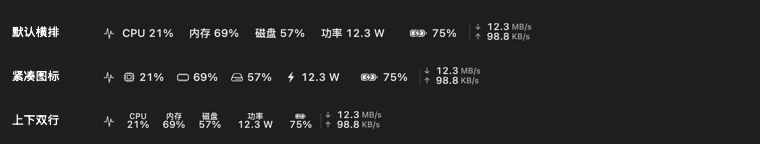
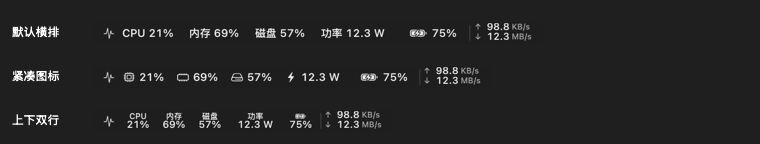
发布 3.8.2：调整状态栏网络为上传在上、下载在下

Changed region(s): [[0.4237, 0.7778, 0.5145, 0.8889], [0.5447, 0.4722, 0.6355, 0.5833], [0.6053, 0.1667, 0.6961, 0.2778]]

diff --git a/MenuBarStyle.swift b/MenuBarStyle.swift
@@ -141,8 +141,8 @@ struct MenuBarPresentation {
                 let reading = value(metric, snapshot: snapshot, battery: battery) as NSString
                 let readingSize = reading.size(withAttributes: attributes)
                 if metric == .network {
-                    networkLayout.draw(snapshot?.network?.downloadBytesPerSecond, arrow: "↓", at: NSPoint(x: x, y: 10))
-                    networkLayout.draw(snapshot?.network?.uploadBytesPerSecond, arrow: "↑", at: NSPoint(x: x, y: 0))
+                    networkLayout.draw(snapshot?.network?.uploadBytesPerSecond, arrow: "↑", at: NSPoint(x: x, y: 10))
+                    networkLayout.draw(snapshot?.network?.downloadBytesPerSecond, arrow: "↓", at: NSPoint(x: x, y: 0))
                 } else if style == .standard && metric != .battery {
                     let text = (metric.label + " " + (reading as String)) as NSString
                     text.draw(at: NSPoint(x: x, y: (height - text.size(withAttributes: attributes).height) / 2), withAttributes: attributes)

diff --git a/README.md b/README.md
@@ -2,13 +2,13 @@
 
 原生 macOS 资源面板、可选菜单栏监控与桌面小组件。查看各核心 CPU、进程内存、磁盘容量、网络速率、电池与进程 CPU 能耗，并由用户选择退出进程。资源面板使用普通窗口，不会置顶。
 
-当前版本：**3.8.1**。安装后的应用和小组件名称均为 **“系统状态”**。
+当前版本：**3.8.2**。安装后的应用和小组件名称均为 **“系统状态”**。
 
 ## 下载安装
 
-**[下载安装包：MacPulse Widget 3.8.1（M 系列 / Intel 通用）](https://github.com/qwer8856/MACPulse-widget/releases/download/v3.8.1/MACPulse-Widget-v3.8.1-macOS-universal.zip)**
+**[下载安装包：MacPulse Widget 3.8.2（M 系列 / Intel 通用）](https://github.com/qwer8856/MACPulse-widget/releases/download/v3.8.2/MACPulse-Widget-v3.8.2-macOS-universal.zip)**
 
-[版本发布页与校验文件](https://github.com/qwer8856/MACPulse-widget/releases/tag/v3.8.1)
+[版本发布页与校验文件](https://github.com/qwer8856/MACPulse-widget/releases/tag/v3.8.2)
 
 支持 Apple Silicon Mac（M 系列）与 Intel Mac，需要 macOS 14 或更新版本。应用和桌面小组件均包含两种架构，系统自动选择对应版本。
 
@@ -66,7 +66,7 @@
 | 紧凑图标 | 每项使用对应图标与读数，减少文字占用 |
 | 上下双行 | 上方为名称、下方为读数，电池上方显示电池及充电图标 |
 
-三种样式均支持任意指标组合、约每秒更新和新版本提示，自动适配深浅色。网络读数始终排在已选指标最后，并以淡竖线与前一项分隔；在全部三种样式中均为上方下载、下方上传的两行布局，数值保持对齐。网络单独显示时不显示前方分隔线。样式选择会保存，菜单与资源面板同步；在菜单中切换立即应用顶部布局，菜单保持展开。固定组合和样式下，读数预留宽度不随每秒采样变化；主动切换组合或样式时按新布局调整宽度。
+三种样式均支持任意指标组合、约每秒更新和新版本提示，自动适配深浅色。网络读数始终排在已选指标最后，并以淡竖线与前一项分隔；在全部三种样式中均为上方上传、下方下载的两行布局，数值保持对齐。网络单独显示时不显示前方分隔线。样式选择会保存，菜单与资源面板同步；在菜单中切换立即应用顶部布局，菜单保持展开。固定组合和样式下，读数预留宽度不随每秒采样变化；主动切换组合或样式时按新布局调整宽度。
 
 主菜单不再单独显示内存压力和交换空间，相关数据保留在内存详情与资源面板中。
 
